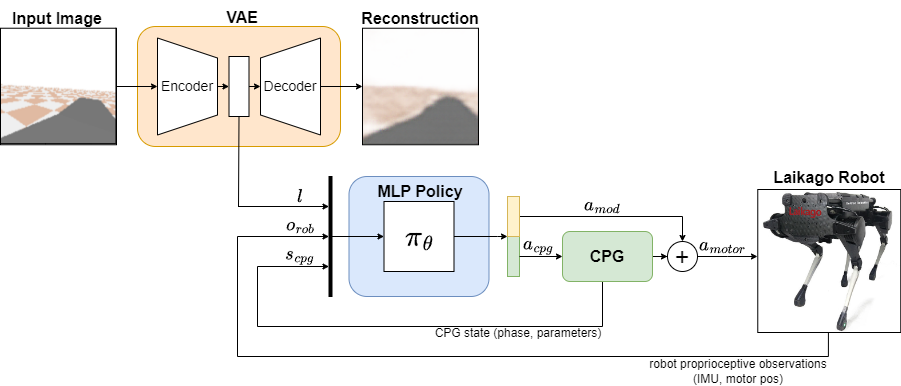
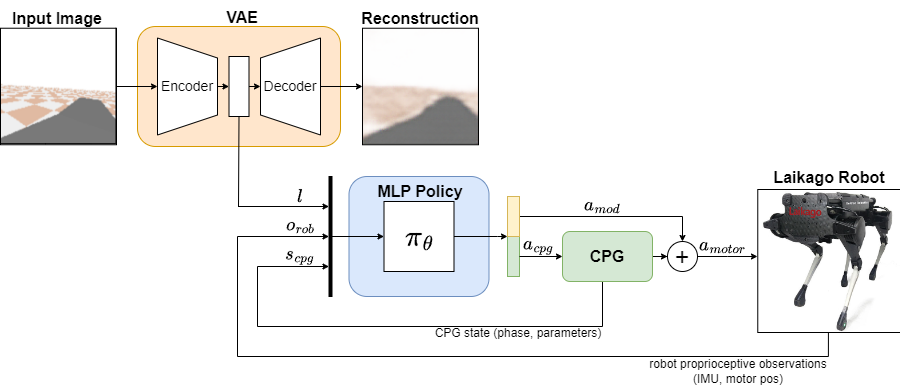
Flatten figure transparency and pair the CPG diagrams
Composite the pipeline and phase shift figures onto white, since their
alpha channels rendered poorly against the README background.

Place the phase shift and joint reference figures side by side and
centered, with a shared caption.

diff --git a/README.md b/README.md
@@ -50,10 +50,14 @@ The CPG is implemented in `utils/cpg.py`. Four coupled oscillators, one per leg,
 frequency `f` and are initialized with fixed phase offsets `[0, pi, pi/2, 3*pi/2]`, which produce a
 diagonal-sequence walking gait with a 90 degree shift between consecutive legs.
 
-<img src="docs/figures/phase_shift.png" alt="Phase shift between coupled oscillators" width="560">
+<p align="center">
+  <img src="docs/figures/phase_shift.png" alt="Phase shift between coupled oscillators" width="57%">
+  &nbsp;&nbsp;
+  <img src="docs/figures/hip_knee.png" alt="Hip and knee joints of the Laikago robot" width="33%">
+</p>
 
-*Phase relationship between the four oscillators: front left, front right, back left and back
-right.*
+<p align="center"><em>Left: phase relationship between the four oscillators, front left, front
+right, back left and back right. Right: the two actuated joints per leg in the sagittal plane.</em></p>
 
 Phase integration:
 
@@ -110,10 +114,6 @@ Three CPG variants are provided:
 Only the eight sagittal joints (hip and knee of each leg, PyBullet joint indices 1, 2, 5, 6, 9, 10,
 13, 14) are driven by the CPG in the final architecture. The four coronal joints (indices 0, 4, 8,
 12) are held at zero.
-
-<img src="docs/figures/hip_knee.png" alt="Hip and knee joints of the Laikago robot" width="380">
-
-*The two actuated joints per leg in the sagittal plane.*
 
 `utils/cpg_test.py` is a standalone script that plots the hip and knee command profiles for a fixed
 parameter set, useful for inspecting the effect of each parameter without running the simulator.
